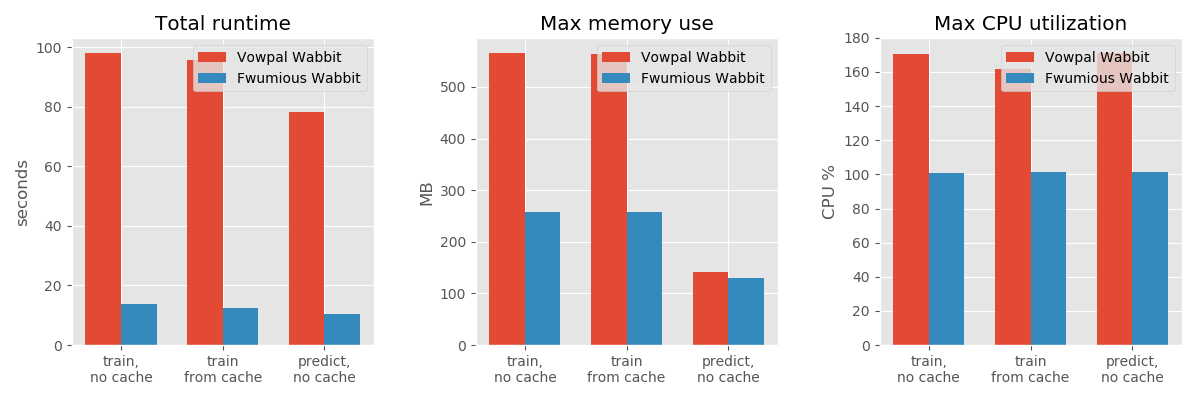
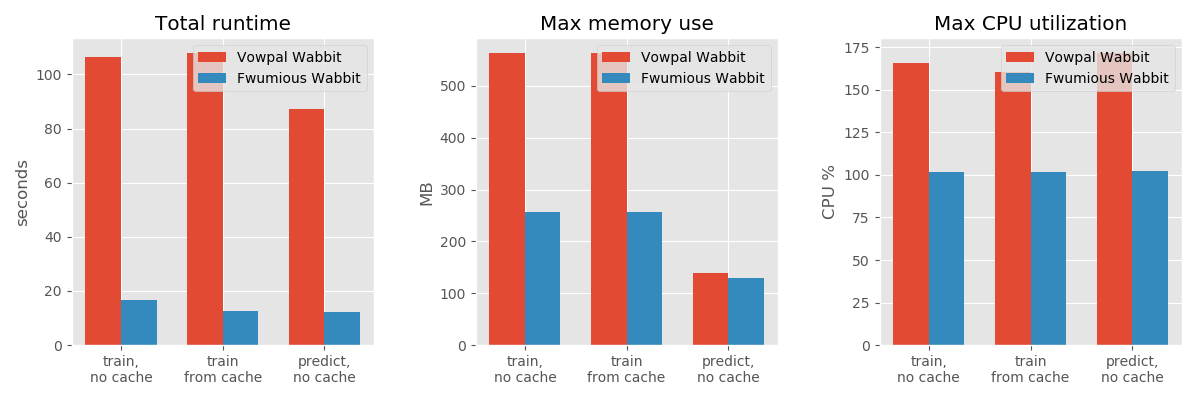
bumping version & benchmark info

diff --git a/src/version.rs b/src/version.rs
@@ -1,1 +1,1 @@
-pub static LATEST: &str = "1.0";
+pub static LATEST: &str = "1.1";

diff --git a/BENCHMARK.md b/BENCHMARK.md
@@ -14,12 +14,12 @@ here are the results for 3 runs for each scenario, taking mean values:
 ![benchmark results](benchmark_results.png)
 Scenario|Runtime (seconds)|Memory (MB)|CPU %
 ----|----:|----:|----:
-vw train, no cache|98.07 | 566 | 170.43
-fw train, no cache|13.82 | 258 | 100.90
-vw train, using cache|95.84 | 565 | 161.80
-fw train, using cache|12.44 | 258 | 101.40
-vw predict, no cache|78.38 | 142 | 171.17
-fw predict, no cache|10.51 | 130 | 101.67
+vw train, no cache|106.33 | 563 | 165.97
+fw train, no cache|16.66 | 257 | 101.77
+vw train, using cache|107.94 | 564 | 160.63
+fw train, using cache|12.41 | 257 | 101.70
+vw predict, no cache|87.07 | 139 | 171.70
+fw predict, no cache|12.15 | 129 | 102.03
 
 ### Model equivalence
 loss values for the test set:
@@ -81,8 +81,8 @@ or, if you just want the numbers with less dependencies run:
 
 ### versions:
 ```
-vowpal wabbit 8.9.0 (git commit: b29f803f1)
-fwumious wabbit 1.0 (git commit: 415eca4)
+vowpal wabbit 8.9.0 (git commit: 58c3a8949)
+fwumious wabbit 1.1 (git commit: 19c0424)
 ```
 
 ### CPU Info
@@ -92,5 +92,5 @@ Intel(R) Xeon(R) CPU E5-2630 v2 @ 2.60GHz
 ### Operating System
 ```
 System: Linux
-Version: #174~14.04.1-Ubuntu SMP Thu May 9 08:17:37 UTC 2019
+Version: #186-Ubuntu SMP Mon Dec 4 19:09:19 UTC 2017
 ```
